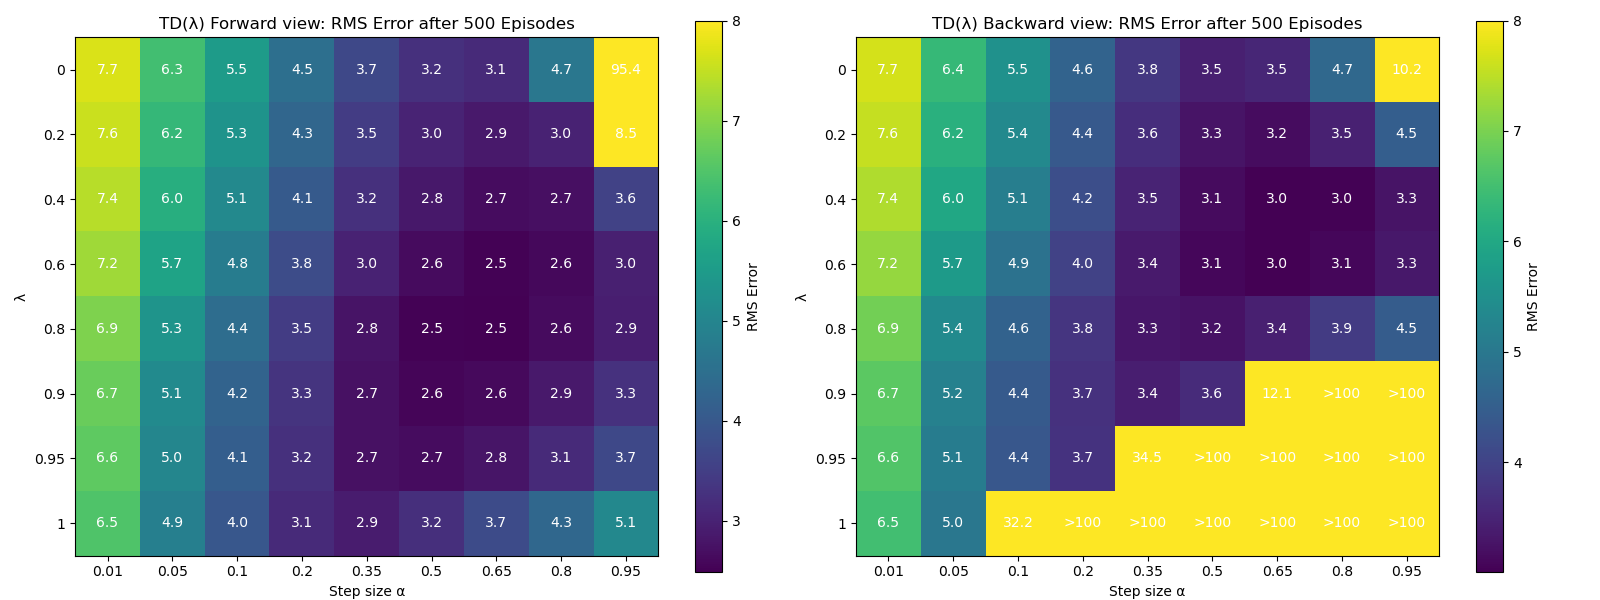
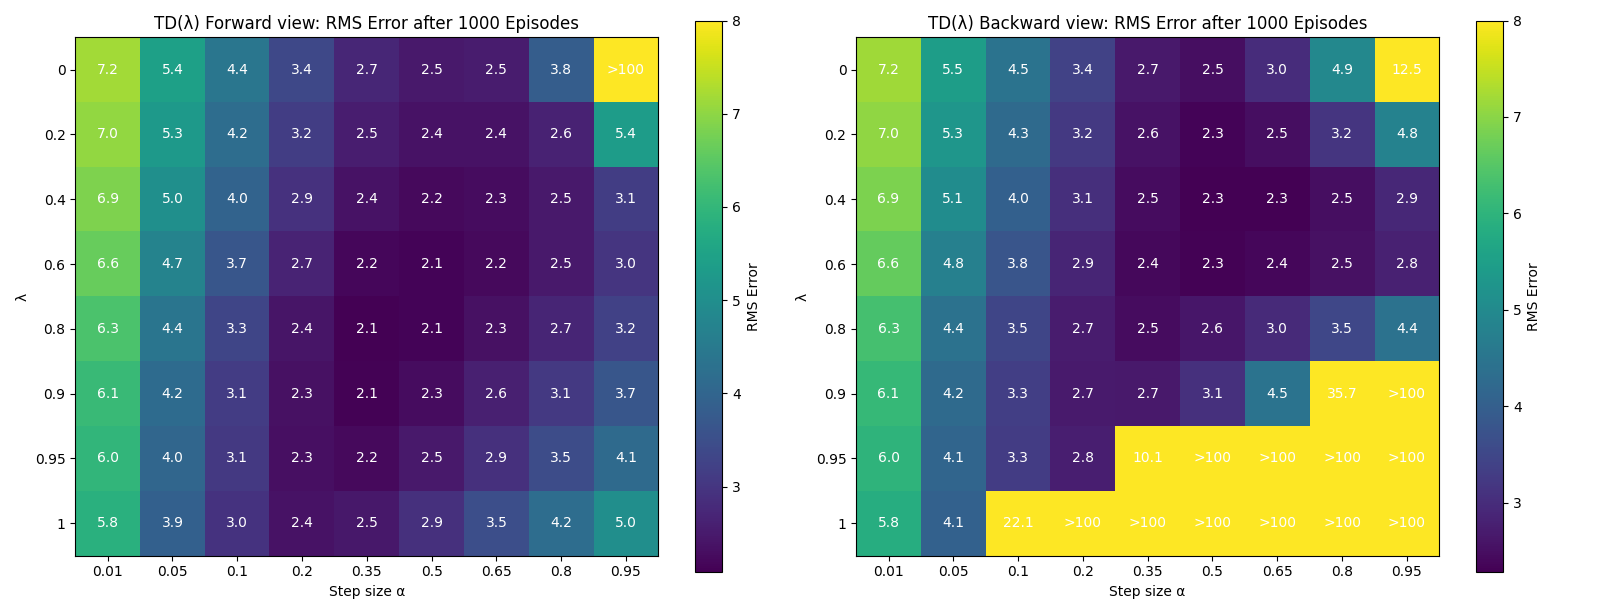
Update Results

diff --git a/experiments/model_free_prediction/scripts/learning_curves.py b/experiments/model_free_prediction/scripts/learning_curves.py
@@ -22,15 +22,15 @@ for seed in seeds:
     act = lambda s: sample_action(soft_pi, s, rng)
 
     errors = []
-    monte_carlo(mdp, act, n_episodes, alpha=0.05, gamma=gamma, callback=record)
+    monte_carlo(mdp, act, n_episodes, alpha=0.35, gamma=gamma, callback=record)
     mc_errors.append(errors)
 
     errors = []
-    td_0(mdp, act, n_episodes, alpha=0.1, gamma=gamma, callback=record)
+    td_0(mdp, act, n_episodes, alpha=0.5, gamma=gamma, callback=record)
     td_errors.append(errors)
 
     errors = []
-    backward_td_lambda(mdp, act, n_episodes, alpha=0.1, gamma=gamma, Lambda=0.8, callback=record)
+    backward_td_lambda(mdp, act, n_episodes, alpha=0.35, gamma=gamma, Lambda=0.8, callback=record)
     lambda_errors.append(errors)
 
 episodes_axis = range(10, n_episodes + 1, 10)
@@ -74,7 +74,7 @@ for name, errs in [("MC", mc_final), ("TD(0)", td_final)]:
     low, high = bootstrap_ci(errs)
     ax.plot(alphas, errs.mean(axis=0), marker="o", label=name)
     ax.fill_between(alphas, low, high, alpha=0.2)
-ax.set_title("V(s) RMS Error after 500 Episodes vs Step Size (mean and 95% CI over 5 seeds)")
+ax.set_title(f"V(s) RMS Error after {n_episodes} Episodes vs Step Size (mean and 95% CI over 5 seeds)")
 ax.set_xlabel("Step size α")
 ax.set_ylabel("RMS Error")
 ax.legend()

diff --git a/experiments/model_free_prediction/scripts/heatmaps.py b/experiments/model_free_prediction/scripts/heatmaps.py
@@ -4,7 +4,7 @@ from experiments.model_free_prediction.scripts.rollouts_test import mdp, gamma, 
 import numpy as np
 import matplotlib.pyplot as plt
 
-n_episodes = 500
+n_episodes = 1000
 seeds = [0, 1, 2, 3, 4]
 alphas = [0.01, 0.05, 0.1, 0.2, 0.35, 0.5, 0.65, 0.8, 0.95]
 m = mask & (V_soft > -99)
